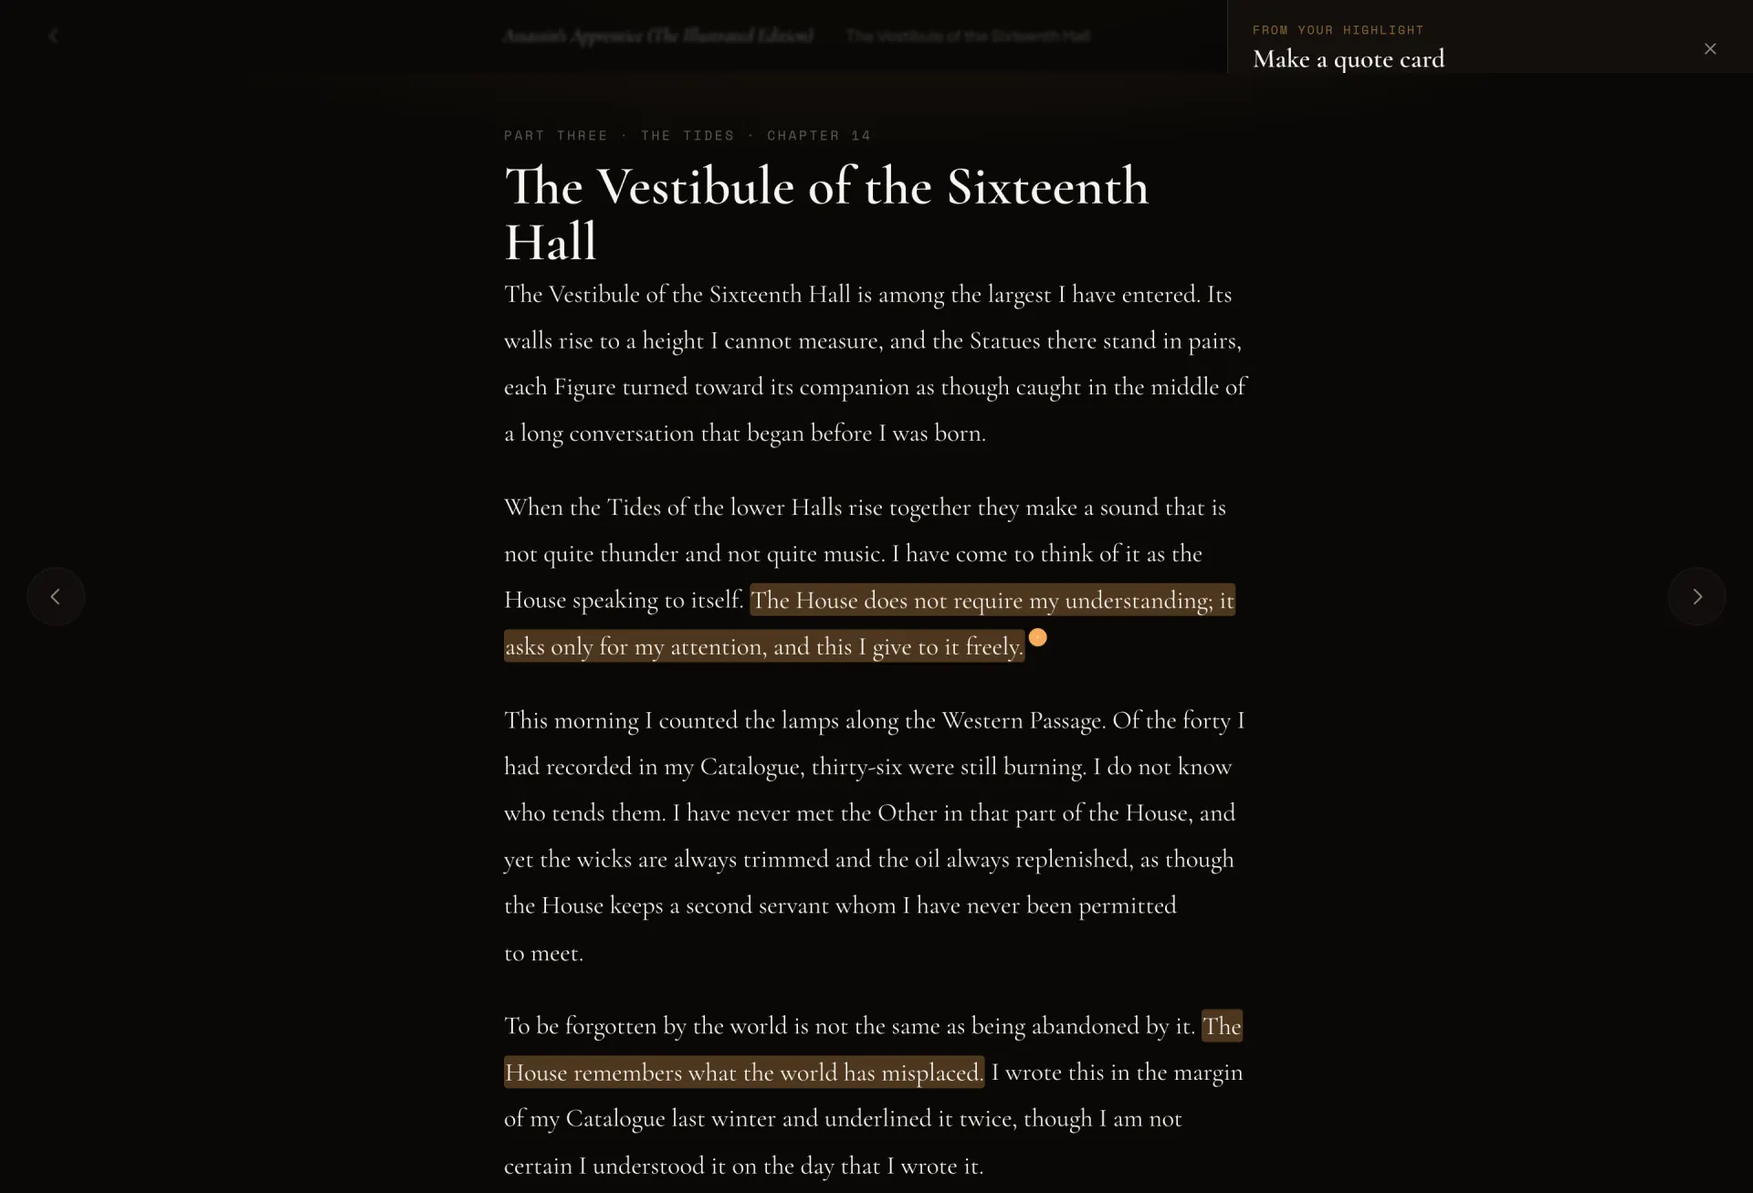
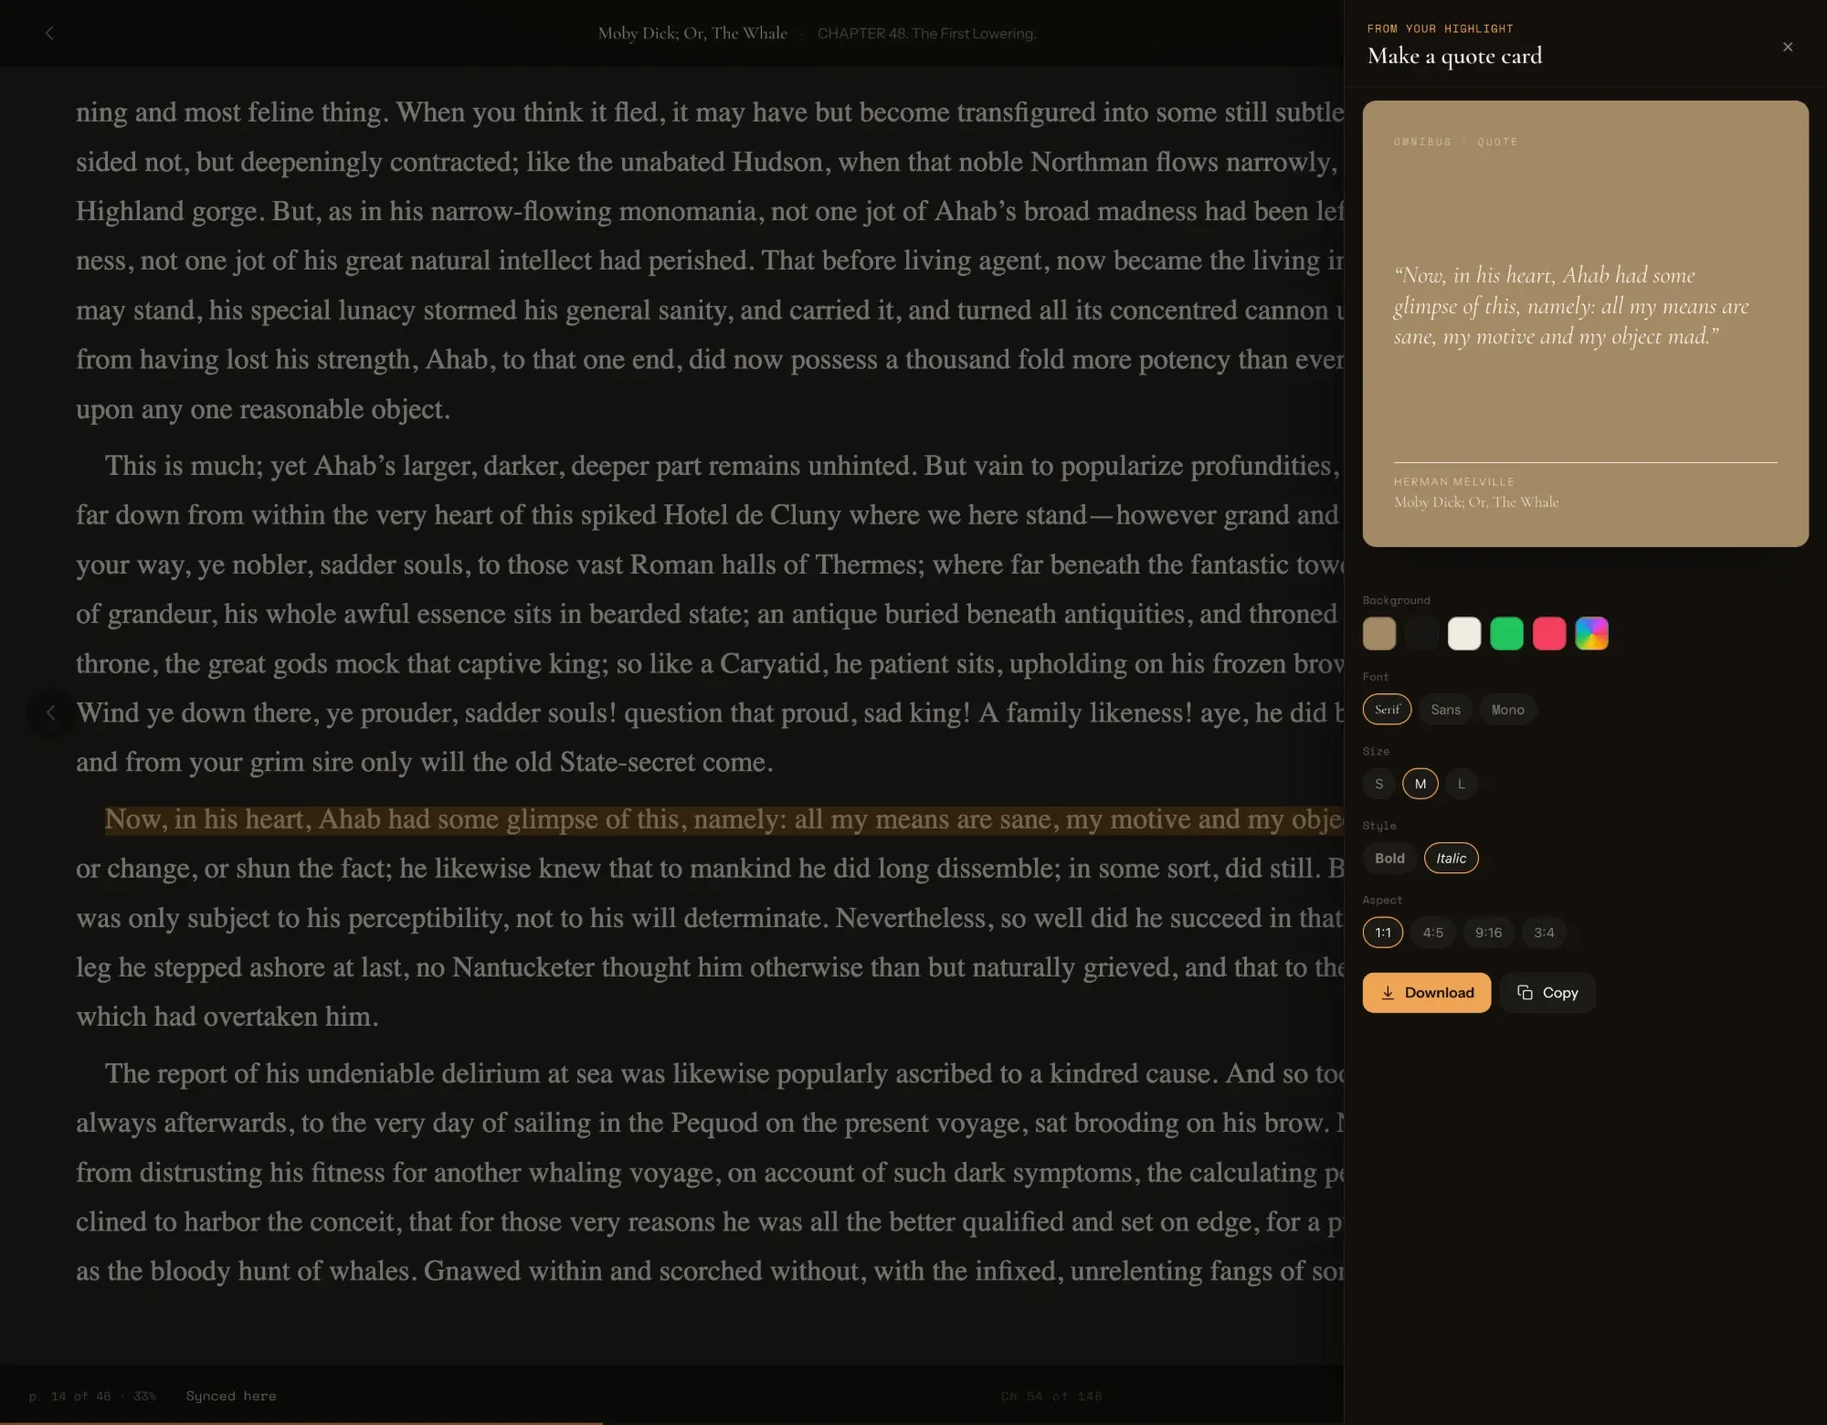
feat: new site reader shot, PDF/CBZ in hero, Deploy with Docker button and guide (#2600)
## Summary
- Site: the "Saves your progress" figure is a live capture of the reader
on *Moby-Dick* with the quote-card composer open, in both the dark and
sepia directions.
- Site: the hero lists `EPUB · PDF · CBZ · M4B · MP3` and gains a
"Deploy with Docker" button linking to `docs/docker.md`; a
short-viewport padding keeps the wrapped CTA clear of the fixed header.
- Docker: `docs/docker.md` is rewritten for copy-paste deploys
(paste-ready compose snippet, the lines to edit, then short bulleted
sections); `docker-compose.yml` pulls `sesloan/omnibus:latest` by
default with `build: .` as the commented alternative; the README quick
start matches.
- `scripts/site-shots.sh` skips the live capture so a design re-export
cannot overwrite it.

## Test plan
- [x] Drove `site/src` in a browser: three hero buttons render, the
Docker one opens docker.md in a new tab, the direction toggle swaps the
reader shot between its dark and sepia captures, and at 861x560 the hero
copy sits below the header and inside the pane.
- [x] `docker compose config --quiet` passes; the guide's yaml snippet
and the compose service block are byte-identical; `latest` and `0.37.4`
exist on Docker Hub.
- [x] `node --check`, `bash -n` and an HTML parse of the touched files
exit 0. No Rust or TS touched; `app.js` is unchanged from `main`.
- [ ] Check the published site after the Pages workflow runs.

## Version
- [ ] **Minor**
- [ ] **Patch**
- [x] **No release** — site, docs and the compose default only.
[…]

Changed region(s): [[0.0312, 0.0, 1.0, 0.9487], [0.0, 0.9793, 0.375, 1.0], [0.8125, 0.4897, 0.8438, 0.5203]]

diff --git a/site/src/index.html b/site/src/index.html
@@ -42,9 +42,10 @@
           <p class="lede" data-anim style="--d:140ms">Omnibus indexes the books already sitting on your disk and gives them a home: a cover wall you can browse, a reader that keeps your place, a player that knows its chapters, and no account anywhere except your own server.</p>
           <div class="cta" data-anim style="--d:200ms">
             <a class="sbtn" href="https://github.com/omnibus-library/omnibus" target="_blank" rel="noreferrer"><span class="star">★</span>Star on GitHub</a>
+            <a class="sbtn ghost" href="https://github.com/omnibus-library/omnibus/blob/main/docs/docker.md" target="_blank" rel="noreferrer">Deploy with Docker</a>
             <a class="sbtn ghost" href="https://github.com/omnibus-library/omnibus" target="_blank" rel="noreferrer">Read the source</a>
           </div>
-          <p class="meta" data-anim style="--d:260ms"><span>EPUB · M4B · MP3</span></p>
+          <p class="meta" data-anim style="--d:260ms"><span>EPUB · PDF · CBZ · M4B · MP3</span></p>
         </div>
         <div class="hero-shot" data-anim style="--d:300ms">
           <figure class="frame frame--top" style="--ar:1442/902">
@@ -82,8 +83,8 @@
             </ul>
           </div>
           <div class="split-vis" data-anim style="--d:230ms">
-            <figure class="frame" style="--ar:1440/980">
-              <img class="shot" src="shots/dark/omnibus-reader-quote-card.webp" width="1440" height="980" alt="The EPUB reader with a highlighted passage and the quote-card composer open beside it.">
+            <figure class="frame" style="--ar:2000/1560">
+              <img class="shot" src="shots/dark/omnibus-reader-quote-card.webp" width="2000" height="1560" alt="The EPUB reader with a highlighted passage and the quote-card composer open beside it.">
             </figure>
           </div>
         </div>

diff --git a/site/src/site.css b/site/src/site.css
@@ -116,6 +116,8 @@ body.flow{overflow:auto}
 
 /* hero — the one screen shown in perspective, bleeding off the right edge */
 .hero{display:grid;grid-template-columns:minmax(360px,42%) 1fr;align-items:center;gap:clamp(24px,4vw,72px)}
+/* A third CTA wraps at the deck's 861x560 floor and the centred copy rides under the fixed header. */
+@media (max-height:620px){body:not(.flow) .hero{padding-top:70px}}
 .hero-copy{display:grid;gap:clamp(14px,2.2vh,28px);align-content:center;position:relative;z-index:2}
 /* The slot spans the pane and centres the frame with grid — NOT with a
    translate. It carries [data-anim], and `.pane.on [data-anim]` sets
@@ -180,7 +182,7 @@ body.flow{overflow:auto}
 .pane.on [data-anim]{opacity:1;transform:none}
 
 /* ── flow mode: narrow viewports, and any no-JS visit ─────────────
-   The deck is a desktop conceit — twelve locked 100vh panels on a phone is a
+   The deck is a desktop conceit — thirteen locked 100vh panels on a phone is a
    trap. Below the breakpoint (and with JS off) the panels become ordinary
    stacked sections that scroll, and every [data-anim] is shown outright. */
 body.flow .site{position:static;overflow:visible;height:auto}

diff --git a/docs/docker.md b/docs/docker.md
@@ -1,115 +1,140 @@
 # Running Omnibus with Docker
 
-Omnibus ships a multi-stage [`Dockerfile`](../Dockerfile) and a
-[`docker-compose.yml`](../docker-compose.yml) modelled on the Jellyfin
-convention: bind-mount your media read-write, keep durable state in `/config`
-and a regenerable cache in `/cache`, and configure everything through env.
-
-> The Nix dev shell (see [local-development.md](local-development.md)) is
-> still the supported way to *develop*. Docker is for *deploying* a built server.
+Omnibus is published as a ready-to-run image on Docker Hub:
+[`sesloan/omnibus`](https://hub.docker.com/r/sesloan/omnibus/tags). It runs on
+amd64 and arm64 and already contains everything the server needs, including
+ffmpeg for audiobook streaming and kepubify for Kobo downloads. You do not need
+a copy of this repository to run it. A folder and a compose file are enough.
 
 ## Quick start
 
-```bash
-# 1. Point the library mounts at your books and set your access URL.
-$EDITOR docker-compose.yml
+1. Make a folder for Omnibus and open a terminal in it:
 
-# 2. Build the bundle and start (first build is slow — it compiles the
-#    workspace and the WASM client).
-docker compose up -d --build
+   ```bash
+   mkdir omnibus && cd omnibus
+   ```
 
-# 3. Open http://localhost:3000 (or whatever you set) and register.
-#    The FIRST account created is automatically the admin.
-```
+2. Save the following as `docker-compose.yml` in that folder:
 
-## Volumes
+   ```yaml
+   services:
+     omnibus:
+       image: sesloan/omnibus:latest
+       container_name: omnibus
+       restart: unless-stopped
 
-| Container path | Contents | Back up? | Compose default |
-|---|---|---|---|
-| `/config` | SQLite DB (`omnibus.db`) + cover images + journal images | **Yes** | `./config` |
-| `/cache` | WebP thumbnails + HLS transcode segments | No (regenerated) | `./cache` |
-| `/books` | Ebook library | n/a (your data) | edit the bind mount |
-| `/audiobooks` | Audiobook library | n/a (your data) | edit the bind mount |
+       ports:
+         - "3000:3000"                            # host:container — change the left side if 3000 is taken
 
-Covers live under `/config` because they aren't reconstructible from the library
-files, and images a reader attaches to a journal entry sit beside them for the
-same reason — nothing else holds a copy. Thumbnails and HLS segments live under
-`/cache` because the server rebuilds them on demand and evicts them under a size
-cap, so deleting that volume costs only the next re-encode.
+       volumes:
+         - ./config:/config                       # database, covers, journal images — back this up
+         - ./cache:/cache                         # thumbnails and audio transcodes — safe to delete
+         - /path/to/your/ebooks:/books            # EDIT: your ebook folder
+         - /path/to/your/audiobooks:/audiobooks   # EDIT: your audiobook folder
 
-### Upgrading from a release before journal images moved
+       environment:
+         PUID: "1000"                             # EDIT if `id -u` is not 1000 — files are written as this user
+         PGID: "1000"                             # EDIT if `id -g` is not 1000
+         OMNIBUS_PUBLIC_ORIGIN: "http://localhost:3000"   # EDIT: the exact address you open in the browser
+         OMNIBUS_SECURE_COOKIES: "0"              # 0 over plain http; set to 1 (or remove) behind HTTPS
+         EBOOK_LIBRARY_PATH: "/books"
+         AUDIOBOOK_LIBRARY_PATH: "/audiobooks"
+   ```
 
-Journal images used to land in `/cache/data/journal-images` — inside the volume
-this page calls safe to delete. On the first boot after upgrading, the server
-moves any it finds there into `/config/journal-images` and logs `relocated
-journal images out of the data dir default` with `moved` and `found` counts.
-There is nothing to do by hand when those two agree; if `moved` is short of
-`found`, a `failed to relocate journal image` warning above it names each file
-still sitting in `/cache`, so fix that before deleting the volume. If you had
-already cleared `/cache` (or run `docker compose down -v`) on an affected
-release, those images are gone and the entries embedding them render a broken
-image.
+3. Change the lines marked `EDIT`:
 
-## Key environment variables
+   - **The two library paths.** Replace `/path/to/your/ebooks` and
+     `/path/to/your/audiobooks` with the folders on your machine. Leave the
+     right-hand side (`/books`, `/audiobooks`) alone. If you only have one kind
+     of library, point both at real folders anyway. An empty one is fine.
+   - **`OMNIBUS_PUBLIC_ORIGIN`.** The address you will actually type into the
+     browser. `http://localhost:3000` is right if you open it on the same
+     machine. If you will open it from another device on your network, use that
+     address instead, for example `http://192.168.1.10:3000`. You can list
+     several, separated by commas. If this does not match, logging in fails
+     with a 403.
+   - **`PUID` and `PGID`**, if your user is not `1000`. Run `id -u` and `id -g`
+     to check. Omnibus writes its database and cache as this user, so the files
+     end up owned by you rather than root.
 
-| Variable | Why it matters |
+4. Start it:
+
+   ```bash
+   docker compose up -d
+   ```
+
+5. Open the address you set in a browser and register. **The first account
+   created is the admin.** Omnibus scans both libraries on every start.
+
+## Already have a compose file?
+
+- Copy the `omnibus:` block into your `services:` section.
+- Make the same `EDIT` changes.
+- `./config` and `./cache` are relative to your compose file. Use an absolute path if you prefer, e.g. `/srv/omnibus/config:/config`.
+- Port 3000 taken? Change the left side of `ports`, and change `OMNIBUS_PUBLIC_ORIGIN` to match.
+
+## Settings
+
+| Setting | Meaning |
 |---|---|
-| `OMNIBUS_PUBLIC_ORIGIN` | Must list the exact URL(s) you open in the browser, or authenticated POSTs are rejected with 403. Comma-separate multiples. |
-| `OMNIBUS_SECURE_COOKIES` | Set `0` when serving plain `http://` (LAN/no TLS) — otherwise the session cookie is `Secure`-only and login silently fails. Set `1` behind HTTPS. |
-| `EBOOK_LIBRARY_PATH` / `AUDIOBOOK_LIBRARY_PATH` | The in-container mount targets. Set both or neither (setting one clears the other). Omit both to configure libraries from the Settings UI instead. |
-| `IP` / `PORT` | Bind address. The image defaults to `IP=0.0.0.0` so the container is reachable; `PORT` defaults to `3000`. |
+| `./config:/config` | Database, covers, journal images. **Back this up.** |
+| `./cache:/cache` | Thumbnails and audio transcodes. Safe to delete. |
+| `/books`, `/audiobooks` | Your libraries. Add `:ro` to make them read-only (disables in-app uploads). |
+| `PUID`, `PGID` | Run as this user and group. Files land owned by you. |
+| `OMNIBUS_PUBLIC_ORIGIN` | The address you open in the browser. Must match, or login fails. Comma-separate several. |
+| `OMNIBUS_SECURE_COOKIES` | `0` on plain http. `1` or removed behind HTTPS. |
+| `EBOOK_LIBRARY_PATH`, `AUDIOBOOK_LIBRARY_PATH` | Library folders inside the container. Leave as is. Remove **both** to set libraries in the app instead. |
 
-The image bakes sensible defaults for `DATABASE_URL`, `OMNIBUS_COVERS_DIR`,
-`OMNIBUS_JOURNAL_IMAGES_DIR`, `OMNIBUS_THUMBS_DIR`, and `OMNIBUS_DATA_DIR` so they
-land in the volumes above — override only if you change the mount layout. See [`.env.example`](../.env.example)
-for the full annotated list of supported variables.
+More optional settings: [`.env.example`](../.env.example).
 
-## File ownership (PUID / PGID)
+## Backups
 
-Same convention as the linuxserver.io images: set `PUID` and `PGID` to your host
-user's IDs (find them with `id -u` and `id -g`) so the server writes `./config`
-and `./cache` as you, and files land owned by your account rather than root.
-They default to `1000:1000`.
-
-```yaml
-environment:
-  PUID: "1000"
-  PGID: "1000"
-```
-
-The container starts as root only long enough for the entrypoint to apply these
-IDs and fix ownership of the two volume roots, then drops to the unprivileged
-`omnibus` user before running the server. The library mounts need to be
-readable by that user, and writable if you want in-app uploads to land there.
-Migrating data that's currently owned by a different UID? `chown` it once on
-the host — the entrypoint only adjusts the mount roots, not their existing
-contents.
+- Back up `config`. It cannot be rebuilt.
+- Skip `cache`. Omnibus rebuilds it.
+- Your library folders are yours. Omnibus never moves or renames files in them.
 
 ## Behind a reverse proxy (HTTPS)
 
-Terminate TLS at nginx/Caddy/Traefik, proxy to the container's port, then:
+- Terminate TLS in nginx, Caddy or Traefik. Proxy to port 3000.
+- Set `OMNIBUS_PUBLIC_ORIGIN` to your `https://` address.
+- Set `OMNIBUS_SECURE_COOKIES` to `1`, or remove it.
+- Optional: `OMNIBUS_TRUST_FORWARDED_FOR: "1"` so rate limiting sees real client IPs. Only if your proxy strips incoming `X-Forwarded-For`.
 
-- set `OMNIBUS_PUBLIC_ORIGIN` to your public `https://` origin,
-- remove `OMNIBUS_SECURE_COOKIES` (or set `1`),
-- only set `OMNIBUS_TRUST_FORWARDED_FOR=1` if the proxy strips inbound
-  `X-Forwarded-For` — otherwise clients can spoof the rate-limit key. See the
-  warning in [`.env.example`](../.env.example).
+## Updating
 
-## Admin recovery
+```bash
+docker compose pull
+docker compose up -d
+```
 
-There is no separate admin-seed for production (the dev seed is compiled out of
-release builds). If you lose admin access, set `OMNIBUS_INITIAL_ADMIN=<username>`
-on an existing account, restart once, then **remove it** — it re-promotes on
-every boot while set.
+- `latest` is the newest release.
+- Pin a version with a tag, e.g. `sesloan/omnibus:0.37.4`.
+- Database migrations run on start.
+
+## Locked out?
+
+- Add `OMNIBUS_INITIAL_ADMIN: "yourusername"` to `environment`. Use an account that exists.
+- Restart once. That account is now admin.
+- **Remove the line.** It re-promotes on every start while set.
+
+## Building from source
+
+- Clone the repo.
+- In `docker-compose.yml`, replace `image:` with `build: .`.
+- Run `docker compose up -d --build`. The first build is slow.
 
 ## Troubleshooting
 
-- **Login does nothing / 403 on POST** — `OMNIBUS_PUBLIC_ORIGIN` doesn't match
-  the browser URL, or `OMNIBUS_SECURE_COOKIES` is on over plain http.
-- **Container unreachable** — confirm `IP=0.0.0.0` (the image default) and that
-  the host port mapping isn't already taken.
-- **No audiobook playback** — ffmpeg is bundled in the image; check the
-  container logs for transcode errors and that the audiobook mount is populated.
-- **Empty library** — verify the library mounts resolve to real directories on the
-  host and that `EBOOK_LIBRARY_PATH` / `AUDIOBOOK_LIBRARY_PATH` match the mount
-  targets.
+- **Login does nothing / 403.** `OMNIBUS_PUBLIC_ORIGIN` does not match your browser address, or `OMNIBUS_SECURE_COOKIES` is not `0` on plain http.
+- **Page will not load.** The host port is taken, or you opened the container port instead of the host port.
+- **Library is empty.** The host paths on the left of `/books` and `/audiobooks` do not exist, or the `PUID` user cannot read them.
+- **Audiobooks will not play.** Check `docker compose logs omnibus` for transcode errors. Confirm the audiobook folder is not empty.
+- **Files owned by root.** Set `PUID` and `PGID` to your IDs. Then `chown` anything created before the change.
+
+## Upgrading from an early release
+
+- Journal images used to live under `/cache`.
+- First start after upgrading moves them to `/config/journal-images`.
+- The log line `relocated journal images out of the data dir default` reports `moved` and `found`. Equal means done.
+- `moved` lower than `found`? A `failed to relocate journal image` warning names each file. Fix those before deleting `cache`.
+- Cache already cleared on an affected release? Those images are gone. Their entries show a broken image.

diff --git a/docs/architecture.md b/docs/architecture.md
@@ -886,17 +886,17 @@ on every push to `main` that touches it.
 
 | Path | Role |
 |---|---|
-| `src/index.html` | Twelve panels. All copy is real markup, never baked into an image. |
+| `src/index.html` | Thirteen panels. All copy is real markup, never baked into an image. |
 | `src/site.css` | `--pg-*` chrome tokens, dark + sepia directions, and the `body.flow` fallback used below 861x560 and whenever JS is off. |
 | `src/app.js` | The panel deck — wheel/key/touch behind one gate, direction toggle, section rail. Progressive: the deck is opt-in, the page reads without it. |
-| `src/shots/{dark,sepia}/` | App screenshots, WebP, one directory per colour direction. Stills exported at 2x from the Claude Design "Omnibus" project and re-encoded by [`scripts/site-shots.sh`](../scripts/site-shots.sh) (`… <dir> sepia` writes the sibling set); the PNGs are not committed. |
+| `src/shots/{dark,sepia}/` | App screenshots, WebP, one directory per colour direction. Stills exported at 2x from the Claude Design "Omnibus" project and re-encoded by [`scripts/site-shots.sh`](../scripts/site-shots.sh) (`… <dir> sepia` writes the sibling set); the PNGs are not committed. `omnibus-reader-quote-card` is the exception: both directions are captures of the live reader, not design stills. |
 
-Because the shots are stills, they are a picture of the *design*, not of what the
-server currently renders — they need re-exporting as redesigned surfaces ship
-under [#2132](https://github.com/omnibus-library/omnibus/issues/2132). The markup
+The design stills are a picture of the *design*, not of what the server
+currently renders — they need re-exporting as redesigned surfaces ship under
+[#2132](https://github.com/omnibus-library/omnibus/issues/2132). The markup
 references the dark set; the direction toggle swaps each `img.shot`'s `src` to
 `shots/sepia/` for the names listed in `SEPIA_SHOTS` in `app.js` — a shot absent
-from that set (no sepia export yet) keeps its dark render in both directions.
+from that set keeps its dark render in both directions.
 The phone renders carry their device bezel with alpha corners in the image
 itself, so `.phone .shot` strips the CSS frame chrome the desktop shots get.
 

diff --git a/README.md b/README.md
@@ -21,18 +21,17 @@ The image is published to
 [Docker Hub as `sesloan/omnibus`](https://hub.docker.com/r/sesloan/omnibus/tags),
 and the repo ships a Jellyfin-style [`docker-compose.yml`](docker-compose.yml).
 
+No checkout needed. Save the [`docker-compose.yml`](docker-compose.yml) into a
+folder of your own, edit the lines marked `EDIT` (your two library folders and
+the address you will open it at), then:
+
 ```bash
-# 1. Point the library mounts at your books and set your access URL.
-$EDITOR docker-compose.yml
-
-# 2. Build the bundle and start it (first build compiles the workspace + WASM).
-docker compose up -d --build
-
-# 3. Open http://localhost:3000 and register — the first account is the admin.
+docker compose up -d
 ```
 
-Volumes, env vars, reverse-proxy/TLS, PUID/PGID, and admin recovery are all in
-the [Docker guide](docs/docker.md).
+Open http://localhost:3000 and register — the first account is the admin.
+Adding it to an existing compose file, reverse-proxy/TLS, PUID/PGID, updating,
+and admin recovery are all in the [Docker guide](docs/docker.md).
 
 ## Documentation
 
